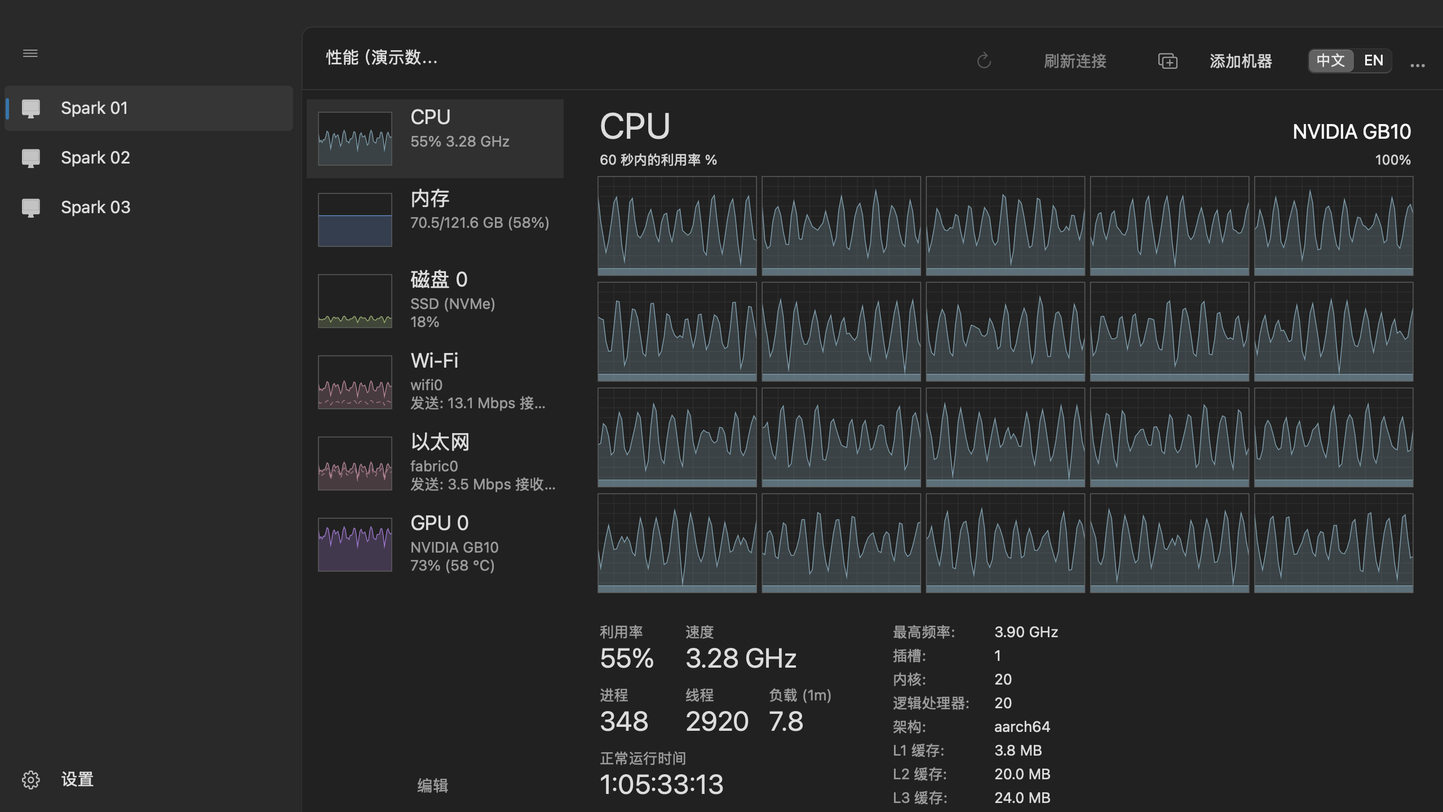
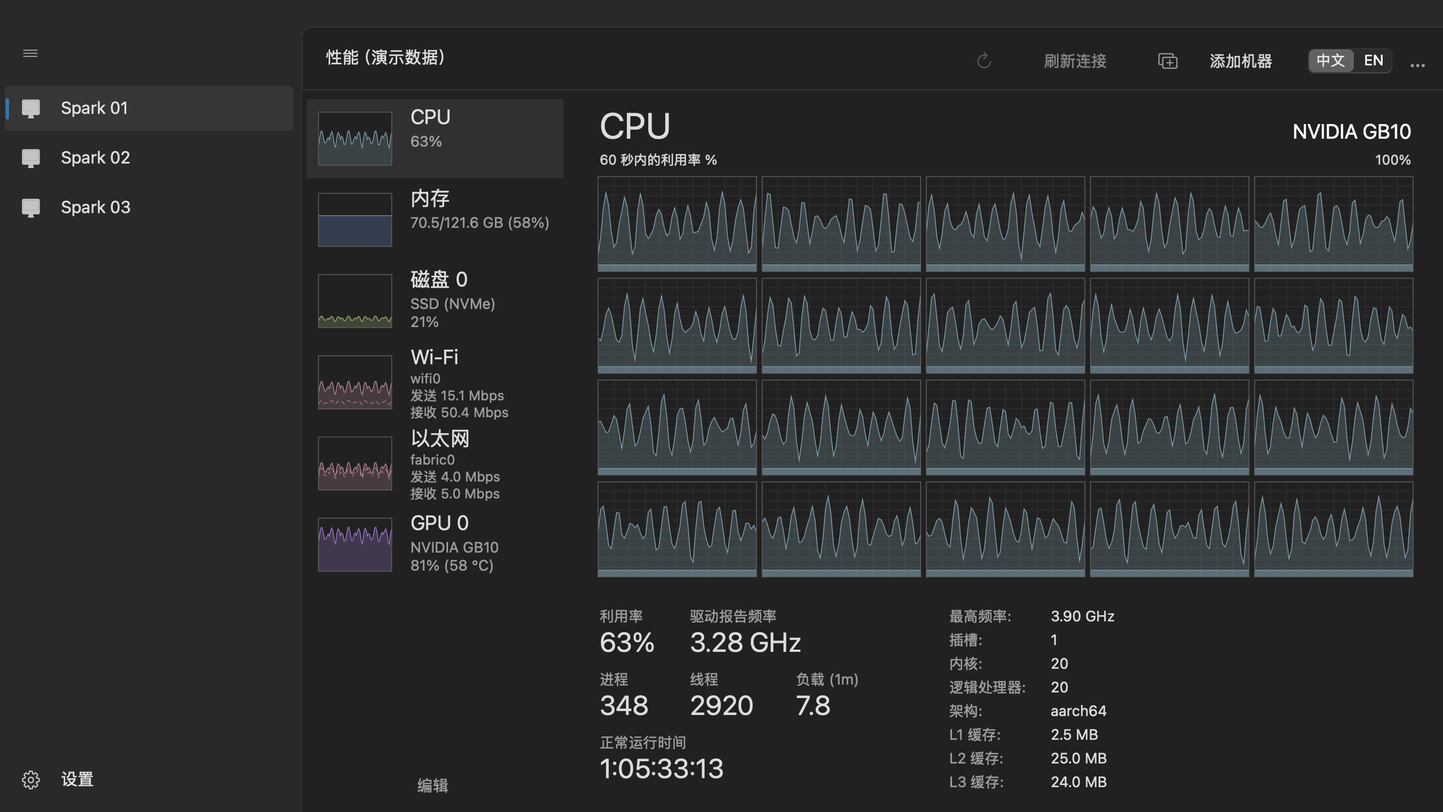
fix: correct native metrics and task manager layouts

diff --git a/Sources/SparkMonitor/PerformancePane.swift b/Sources/SparkMonitor/PerformancePane.swift
@@ -58,7 +58,11 @@ import AppKit
     }
     var gpuActivityCount: Int { localMac ? min(4, engineKeys.count) : 4 }
     func engineTitle(_ key: String) -> String {
-        if let title = selected?.metadata[key] { return title }
+        if let title = selected?.metadata[key] {
+            let duplicates = engineKeys.filter { selected?.metadata[$0] == title }.count > 1
+            let display = ["VideoDecode": "Video Decode", "VideoEncode": "Video Encode"][title] ?? title
+            return duplicates ? display + " (" + key.dropFirst(7) + ")" : display
+        }
         return ["usage": tr("总体利用率", "GPU utilization"), "memoryActivity": tr("内存读写活动", "Memory activity"), "encoder": "Video Encode", "decoder": "Video Decode"][key] ?? "—"
     }
     var gpuMemoryFields: [String] {
@@ -72,7 +76,11 @@ import AppKit
     }
     var selectedEngines: [String] {
         let saved = selected.flatMap { state.profile.gpuGraphs?[$0.id] } ?? []
-        return (0..<gpuActivityCount).map { i in i < saved.count && engineKeys.contains(saved[i]) ? saved[i] : (i < engineKeys.count ? engineKeys[i] : "") }
+        let preferred = windows ? ["3D", "Copy", "VideoDecode", "VideoEncode"].compactMap { name in
+            engineKeys.first { selected?.metadata[$0]?.replacingOccurrences(of: " ", with: "") == name }
+        } : []
+        let defaults = preferred + engineKeys.filter { !preferred.contains($0) }
+        return (0..<gpuActivityCount).map { i in i < saved.count && engineKeys.contains(saved[i]) ? saved[i] : (i < defaults.count ? defaults[i] : "") }
     }
     @objc func chooseEngine(_ menu: NSPopUpButton) {
         guard let id = selected?.id, let key = menu.selectedItem?.representedObject as? String else { return }
@@ -125,7 +133,9 @@ import AppKit
                         let menu = NSPopUpButton(); menu.isBordered = false; menu.font = .systemFont(ofSize: 12)
                         menu.target = self; menu.action = #selector(chooseEngine(_:)); menu.tag = i
                         for key in engineKeys {
-                            menu.addItem(withTitle: engineTitle(key)); menu.lastItem?.representedObject = key
+                            let item = NSMenuItem(title: engineTitle(key), action: nil, keyEquivalent: "")
+                            item.representedObject = key; menu.menu?.addItem(item)
+                            if key.hasPrefix("engine:") { item.toolTip = tr("硬件引擎 ", "Hardware engine ") + key.dropFirst(7) }
                         }
                         menu.setAccessibilityLabel(tr("GPU 图表", "GPU chart") + " \(i + 1)")
                         content.addSubview(menu); engineMenus.append(menu)
@@ -150,25 +160,26 @@ import AppKit
             row.nameLabel.stringValue = deviceTitle(d)
             let percent = number(m?.value("usage"), "%", digits: 0)
             switch d.kind {
-            case .cpu: row.subtitle.stringValue = percent + " " + number(m?.value("frequency").map { $0 / 1000 }, " GHz", digits: 2)
+            case .cpu: row.subtitle.stringValue = percent + (localMac || windows ? " " + number(m?.value("frequency").map { $0 / 1000 }, " GHz", digits: 2) : "")
             case .memory: row.subtitle.stringValue = memoryPair(m?.value("used"), m?.value("total")) + " (\(percent))"
             case .disk:
                 let detail = localMac ? tr("读 ", "R ") + bytes(m?.value("read"), perSecond: true) + "\n" + tr("写 ", "W ") + bytes(m?.value("write"), perSecond: true) : (d.metadata["type"] ?? "SSD (NVMe)") + "\n" + percent
                 row.subtitle.stringValue = detail
             case .network:
-                row.subtitle.stringValue = d.name + "\n" + tr("发送: ", "S: ") + bitRate(m?.value("send")) + " " + tr("接收: ", "R: ") + bitRate(m?.value("receive"))
+                row.subtitle.stringValue = d.name + "\n" + tr("发送 ", "S ") + bitRate(m?.value("send")) + "\n" + tr("接收 ", "R ") + bitRate(m?.value("receive"))
+                row.toolTip = d.name
             case .gpu: row.subtitle.stringValue = d.model + "\n" + percent + (m?.value("temperature").map { " (" + number($0, " °C", digits: 0) + ")" } ?? "")
             }
             let key = d.kind == .network ? "receive" : (localMac && d.kind == .disk ? "read" : "usage")
             row.chart.points = series(state, device: d, key: key, second: d.kind == .network ? "send" : (localMac && d.kind == .disk ? "write" : nil))
-            row.chart.ceiling = d.kind == .network ? rateCeiling(row.chart.points, multiplier: 8) / 8 : (localMac && d.kind == .disk ? rateCeiling(row.chart.points) : 100)
+            row.chart.ceiling = d.kind == .network ? rateCeiling(row.chart.points, multiplier: 8) / 8 : (localMac && d.kind == .disk ? rateCeiling(row.chart.points, binaryUnits: true) : 100)
             row.chart.needsDisplay = true; row.needsDisplay = true
             row.setAccessibilityLabel(row.nameLabel.stringValue + ", " + row.subtitle.stringValue)
         }
         composition.isHidden = selected?.kind != .memory
         if let d = selected {
             let metric = state.latest?.devices[d.id]
-            if d.kind == .memory, let total = metric?.value("total") {
+            if d.kind == .memory, let total = metric?.value("total") ?? state.history.reversed().lazy.compactMap({ $0.snapshot?.devices[d.id]?.value("total") }).first {
                 let installed = windows ? Double(d.metadata["installed"] ?? "") ?? total : total
                 modelLabel.stringValue = bytes(installed)
                 composition.fraction = metric?.value("used").map { $0 / total }
@@ -189,7 +200,7 @@ import AppKit
                 case .gpu:
                     if i < gpuActivityCount {
                         key = selectedEngines[i]; caption = engineTitle(key)
-                        let index = engineKeys.firstIndex(of: key) ?? -1
+                        let index = engineMenus[i].indexOfItem(withRepresentedObject: key)
                         if engineMenus[i].indexOfSelectedItem != index { engineMenus[i].selectItem(at: index) }
                     } else {
                         let field = gpuMemoryFields[i - gpuActivityCount]
@@ -204,6 +215,8 @@ import AppKit
                 chart.toolTip = chart.coreIndex.map { "CPU \($0)" }
                 if d.kind == .network {
                     chart.toolTip = tr("实线：接收；虚线：发送。", "Solid: receive; dashed: send.")
+                } else if d.kind == .disk && i == 1 {
+                    chart.toolTip = tr("实线：读取；虚线：写入。", "Solid: read; dashed: write.")
                 }
                 var capacity: Double?
                 if memoryChart {
@@ -220,7 +233,7 @@ import AppKit
                     if capacity == nil { chart.points = []; chart.unavailable = "—" }
                 }
                 else if d.kind == .network { chart.ceiling = rateCeiling(chart.points, multiplier: 8) / 8 }
-                else if d.kind == .disk && (i == 1 || localMac) { chart.ceiling = rateCeiling(chart.points) }
+                else if d.kind == .disk && (i == 1 || localMac) { chart.ceiling = rateCeiling(chart.points, binaryUnits: i == 1) }
                 else { chart.ceiling = 100 }
                 chartTitles[i].stringValue = caption
                 chartScales[i].stringValue = memoryChart ? bytes(capacity) : d.kind == .network ? bitRate(chart.ceiling) : d.kind == .disk && i == 1 ? bytes(chart.ceiling, perSecond: true) : d.kind == .gpu ? number(chartMetric?.value(key), "%", digits: 0) : "100%"
@@ -251,7 +264,8 @@ import AppKit
             let frame = NSRect(x: x, y: top + y, width: w, height: size + 8)
             field.stringValue = text; field.font = .systemFont(ofSize: size)
             field.textColor = secondary ? .secondaryLabelColor : .labelColor
-            field.toolTip = nil; field.maximumNumberOfLines = 1
+            field.toolTip = nil; field.maximumNumberOfLines = 1; field.lineBreakMode = .byTruncatingTail
+            field.setAccessibilityLabel(nil)
             field.frame = frame; details[cursor].1 = frame; cursor += 1
             return field
         }
@@ -271,16 +285,17 @@ import AppKit
         var facts: [(String, String)] = []; var factsX: CGFloat = 228; var keyWidth: CGFloat = zh ? 86 : 138
         switch d.kind {
         case .cpu:
-            stat(tr("利用率", "Utilization"), number(v("usage"), "%", digits: 0), x: 0, y: 0, w: 68)
-            stat(localMac ? tr("性能核速度", "P-core speed") : tr("速度", "Speed"), number(v("frequency").map { $0 / 1000 }, " GHz", digits: 2), x: 76, y: 0, w: 148)
-            stat(tr("进程", "Processes"), number(v("processes"), digits: 0), x: 0, y: 56, w: 68)
-            stat(tr("线程", "Threads"), number(v("threads"), digits: 0), x: 76, y: 56, w: 68)
-            if localMac { stat(tr("能效核速度", "E-core speed"), number(v("efficiencyFrequency").map { $0 / 1000 }, " GHz", digits: 2), x: 150, y: 56, w: 103) }
-            else { stat(windows ? tr("句柄", "Handles") : tr("负载 (1m)", "Load (1m)"), number(v(windows ? "handles" : "load"), digits: windows ? 0 : 1), x: 150, y: 56, w: 103) }
+            stat(tr("利用率", "Utilization"), number(v("usage"), "%", digits: 0), x: 0, y: 0, w: 74)
+            let speed = stat(localMac ? tr("性能核速度", "P-core speed") : (windows ? tr("速度", "Speed") : tr("驱动报告频率", "Driver-reported clock")), number(v("frequency").map { $0 / 1000 }, " GHz", digits: 2), x: 80, y: 0, w: 210)
+            if !localMac && !windows { speed.toolTip = tr("内核驱动报告的频率，可表示所请求的频率档位。", "Frequency reported by the kernel driver; it can represent the requested clock state.") }
+            stat(tr("进程", "Processes"), number(v("processes"), digits: 0), x: 0, y: 56, w: 74)
+            stat(tr("线程", "Threads"), number(v("threads"), digits: 0), x: 80, y: 56, w: 86)
+            if localMac { stat(tr("能效核速度", "E-core speed"), number(v("efficiencyFrequency").map { $0 / 1000 }, " GHz", digits: 2), x: 174, y: 56, w: 125) }
+            else { stat(windows ? tr("句柄", "Handles") : tr("负载 (1m)", "Load (1m)"), number(v(windows ? "handles" : "load"), digits: windows ? 0 : 1), x: 174, y: 56, w: 125) }
             let uptime = state.latest.map { Int($0.uptime) }
             let duration = uptime.map { String(format: "%d:%02d:%02d:%02d", $0 / 86400, $0 / 3600 % 24, $0 / 60 % 60, $0 % 60) } ?? "—"
             stat(tr("正常运行时间", "Up time"), duration, x: 0, y: 112, w: 225)
-            factsX = 260
+            factsX = 310
             let virtualization = d.metadata["virtualization"].map { $0.lowercased() == "true" ? tr("已启用", "Enabled") : tr("已禁用", "Disabled") } ?? "—"
             let frequencyKey = d.metadata["baseFrequency"] != nil ? "baseFrequency" : "maxFrequency"
             facts = [(frequencyKey == "baseFrequency" ? tr("基准速度", "Base speed") : tr("最高频率", "Maximum clock"), number(d.metadata[frequencyKey].flatMap(Double.init).map { $0 / 1000 }, " GHz", digits: 2)),
@@ -294,7 +309,8 @@ import AppKit
             let compressed = v("compressed")
             stat(compressed == nil ? tr("使用中", "In use") : tr("使用中（已压缩）", "In use (Compressed)"), bytes(v("used")) + (compressed.map { " (" + bytes($0) + ")" } ?? ""), x: 0, y: 0, w: 195)
             stat(tr("可用", "Available"), bytes(v("available")), x: 196, y: 0, w: 120)
-            stat(localMac ? tr("App 内存", "App memory") : tr("已提交", "Committed"), localMac ? bytes(v("app")) : memoryPair(v("committed"), v("commitLimit")), x: 0, y: 56, w: 180)
+            let committed = stat(localMac ? tr("App 内存", "App memory") : (windows ? tr("已提交", "Committed") : tr("提交量 / 参考值", "Commit / reference")), localMac ? bytes(v("app")) : memoryPair(v("committed"), v("commitLimit")), x: 0, y: 56, w: 180)
+            if !localMac && !windows { committed.toolTip = tr("已提交虚拟内存 / CommitLimit。仅严格超额分配模式把后者作为硬上限。", "Committed virtual memory / CommitLimit. The limit is enforced in strict overcommit mode.") }
             stat(tr("已缓存", "Cached"), bytes(v("cached")), x: 196, y: 56, w: 120)
             stat(windows ? tr("分页池", "Paged pool") : (localMac ? tr("联动内存", "Wired memory") : tr("已用 Swap", "Swap used")), bytes(v(windows ? "paged" : (localMac ? "wired" : "swapUsed"))), x: 0, y: 112, w: 180)
             stat(windows ? tr("非分页池", "Non-paged pool") : (localMac ? tr("已用 Swap", "Swap used") : tr("Swap 总量", "Swap total")), bytes(v(windows ? "nonpaged" : (localMac ? "swapUsed" : "swapTotal"))), x: 196, y: 112, w: 120)
@@ -312,8 +328,8 @@ import AppKit
         case .disk:
             stat(localMac ? tr("每秒操作数", "IOPS") : tr("活动时间", "Active time"), localMac ? number(v("operations"), digits: 0) : number(v("usage"), "%", digits: 0), x: 0, y: 0, w: localMac ? 112 : 76)
             stat(tr("平均响应时间", "Average response time"), number(v("latency"), tr(" 毫秒", " ms")), x: localMac ? 120 : 78, y: 0, w: 194)
-            stat(tr("读取速度", "Read speed"), bytes(v("read"), perSecond: true), x: 8, y: 56, w: 151)
-            stat(tr("写入速度", "Write speed"), bytes(v("write"), perSecond: true), x: 167, y: 56, w: 150)
+            stat(tr("读取速度", "Read speed"), bytes(v("read"), perSecond: true), x: 0, y: 56, w: 151)
+            stat(tr("写入速度", "Write speed"), bytes(v("write"), perSecond: true), x: 159, y: 56, w: 150)
             factsX = 315; keyWidth = zh ? 86 : 116
             facts = [(tr("容量", "Capacity"), bytes(v("capacity"))), (tr("已格式化", "Formatted"), bytes(v("total"))),
                      (tr("系统磁盘", "System disk"), d.metadata["system"].map { $0 == "true" ? tr("是", "Yes") : tr("否", "No") } ?? "—"),
@@ -326,7 +342,7 @@ import AppKit
             let wifi = d.metadata["type"] == "Wi-Fi"
             facts = [(tr("适配器名称", "Adapter name"), d.name)]
             if wifi { facts.append(("SSID", state.live ? meta("ssid") : "—")) }
-            facts += [(tr("DNS 名称", "DNS name"), meta("domain")), (tr("连接类型", "Connection type"), wifi ? meta("protocol") : meta("type")),
+            facts += [(tr("DNS 名称", "DNS name"), meta("domain")), (tr("连接类型", "Connection type"), wifi ? meta("protocol") : (meta("type") == "Ethernet" ? tr("以太网", "Ethernet") : meta("type"))),
                       (tr("IPv4 地址", "IPv4 address"), meta("ipv4")), (tr("IPv6 地址", "IPv6 address"), meta("ipv6"))]
             if wifi { facts.append((tr("信号强度", "Signal strength"), number(v("signal"), d.metadata["signalUnit"] == "%" ? "%" : " dBm", digits: 0))) }
         case .gpu:
@@ -338,13 +354,18 @@ import AppKit
                 let total = v("dedicatedTotal").flatMap { a in v("sharedTotal").map { a + $0 } }
                 stat(tr("GPU 内存", "GPU memory"), memoryPair(used, total), x: 0, y: 56, w: 158)
             }
-            if localMac { stat(tr("GPU 驱动内存", "GPU driver memory"), bytes(v("allocated")), x: 160, y: 0, w: 195) }
+            if localMac { stat(tr("GPU 驱动内存", "GPU driver memory"), bytes(v("allocated")), x: 140, y: 0, w: 165) }
             else if gpuMemoryFields.contains("shared") { stat(tr("共享 GPU 内存", "Shared GPU memory"), memoryPair(v("sharedUsed"), v("sharedTotal")), x: 160, y: dedicated ? 56 : 0, w: 195) }
-            if let temperature = v("temperature") { stat(tr("GPU 温度", "GPU temperature"), number(temperature, " °C", digits: 0), x: 0, y: dedicated ? 112 : 56, w: 155) }
-            factsX = 363; keyWidth = zh ? 103 : 110
+            if v("temperature") != nil || state.history.contains(where: { $0.snapshot?.devices[d.id]?.value("temperature") != nil }) {
+                stat(tr("GPU 温度", "GPU temperature"), number(v("temperature"), " °C", digits: 0), x: 0, y: dedicated ? 112 : 56, w: 155)
+            }
+            factsX = windows ? 363 : 315; keyWidth = zh ? 103 : 110
             facts = [(tr("驱动版本", "Driver version"), localMac ? "—" : meta("driver")), (tr("驱动日期", "Driver date"), meta("driverDate")),
                      (tr("DirectX 版本", "DirectX version"), meta("directX")), (tr("物理位置", "Physical location"), meta("pci"))]
-            if localMac { facts = [(tr("GPU 核心", "GPU cores"), meta("cores")), (tr("内存架构", "Memory model"), tr("CPU / GPU 共享", "CPU / GPU shared")), (tr("驱动", "Driver"), meta("driver"))] }
+            if localMac {
+                factsX = 315; keyWidth = zh ? 72 : 110
+                facts = [(tr("GPU 核心", "GPU cores"), meta("cores")), (tr("内存架构", "Memory model"), tr("CPU / GPU 共享", "CPU / GPU shared")), (tr("驱动", "Driver"), meta("driver"))]
+            }
         }
         facts.removeAll { $0.1 == "—" || $0.1.isEmpty }
         for (i, fact) in facts.enumerated() {
@@ -376,7 +397,7 @@ import AppKit
         editButton.frame = NSRect(x: 10, y: bounds.height - 39, width: sideWidth - 20, height: 30)
         detailScroll.frame = NSRect(x: sideWidth + 30, y: offset, width: bounds.width - sideWidth - 56, height: bounds.height - offset)
         let w = detailScroll.contentSize.width
-        let h = max(640, detailScroll.contentSize.height)
+        let h = max(640 - offset, detailScroll.contentSize.height)
         titleLabel.frame = NSRect(x: 0, y: 12, width: w * 0.5, height: 44)
         modelLabel.frame = NSRect(x: w * 0.34, y: 26, width: w * 0.66, height: 26)
         let top: CGFloat = 76
@@ -384,7 +405,7 @@ import AppKit
         let kind = selected?.kind
         switch kind {
         case .cpu:
-            let height = h - 270
+            let height = h - 284
             if state.profile.logicalCPU {
                 let columns = charts.count == 20 ? 5 : (charts.count > 16 ? 8 : 4)
                 let rowCount = CGFloat((charts.count + columns - 1) / columns), cellW = (w - CGFloat(columns - 1) * 4) / CGFloat(columns)
@@ -406,7 +427,7 @@ import AppKit
         case .gpu:
             let half = (w - 10) / 2
             let gpuTop = top + 8
-            let graphHeight = (h - (gpuMemoryFields.count == 2 ? 372 : 340)) / CGFloat(2 + gpuMemoryFields.count)
+            let graphHeight = (h - (gpuMemoryFields.count == 2 ? 386 : 340)) / CGFloat(2 + gpuMemoryFields.count)
             frames = (0..<gpuActivityCount).map { NSRect(x: CGFloat($0 % 2) * (half + 10), y: gpuTop + CGFloat($0 / 2) * (graphHeight + 32), width: half, height: graphHeight) }
             for index in gpuMemoryFields.indices {
                 frames.append(NSRect(x: 0, y: gpuTop + CGFloat(2 + index) * (graphHeight + 32), width: w, height: graphHeight))
@@ -462,6 +483,8 @@ import AppKit
             let start = bounds.width * CGFloat(fraction)
             Style.color(.memory).withAlphaComponent(0.55).setFill()
             NSRect(x: start, y: 0, width: bounds.width * CGFloat(modified), height: bounds.height).fill()
+            Style.color(.memory).withAlphaComponent(0.12).setFill()
+            NSRect(x: bounds.width * CGFloat(fraction + modified), y: 0, width: bounds.width * CGFloat(standby), height: bounds.height).fill()
             for f in [fraction + modified, fraction + modified + standby] {
                 Style.color(.memory).setFill(); NSRect(x: bounds.width * CGFloat(min(1, f)), y: 0, width: 1, height: bounds.height).fill()
             }
@@ -483,8 +506,9 @@ func bitRate(_ bytes: Double?) -> String {
     if bits >= 1_000_000 { return number(bits / 1_000_000, " Mbps") }
     return number(bits / 1000, " Kbps")
 }
-func rateCeiling(_ points: [ChartPoint], multiplier: Double = 1) -> Double {
+func rateCeiling(_ points: [ChartPoint], multiplier: Double = 1, binaryUnits: Bool = false) -> Double {
     let peak = max(1, (points.flatMap { [$0.total, $0.secondary].compactMap { $0 } }.max() ?? 1) * multiplier)
-    let magnitude = pow(10, floor(log10(peak)))
+    let unit = binaryUnits ? pow(1024, floor(log(peak) / log(1024))) : 1
+    let magnitude = unit * pow(10, floor(log10(peak / unit)))
     return ([1.0, 2, 5, 10].first { $0 * magnitude >= peak } ?? 10) * magnitude
 }

diff --git a/Sources/SparkMonitor/Charts.swift b/Sources/SparkMonitor/Charts.swift
@@ -1,7 +1,7 @@
 import AppKit
 
 @MainActor enum Style {
-    static var dark: Bool { NSApp.effectiveAppearance.bestMatch(from: [.darkAqua, .aqua]) == .darkAqua }
+    static var dark: Bool { NSAppearance.currentDrawing().bestMatch(from: [.darkAqua, .aqua]) == .darkAqua }
     static var surface: NSColor { dark ? NSColor(white: 0.13, alpha: 1) : .white }
     static var sidebar: NSColor { dark ? NSColor(white: 0.16, alpha: 1) : NSColor(srgbRed: 0.947, green: 0.954, blue: 0.960, alpha: 1) }
     static var grid: NSColor { dark ? NSColor(white: 0.20, alpha: 1) : NSColor(white: 0.947, alpha: 1) }
@@ -184,9 +184,11 @@ struct ChartPoint {
         super.layout()
         chart.frame = NSRect(x: 10, y: 11, width: 66, height: 48)
         let textWidth = bounds.width - (editing ? 124 : 94)
-        nameLabel.frame = NSRect(x: 90, y: 5, width: textWidth, height: 24)
-        subtitle.frame = NSRect(x: 90, y: 29, width: textWidth, height: 35)
-        subtitle.maximumNumberOfLines = 2
+        let network = device.kind == .network
+        nameLabel.frame = NSRect(x: 90, y: network ? 2 : 5, width: textWidth, height: 24)
+        subtitle.frame = NSRect(x: 90, y: network ? 24 : 29, width: textWidth, height: network ? 46 : 35)
+        subtitle.font = .systemFont(ofSize: network ? 12 : 13)
+        subtitle.maximumNumberOfLines = network ? 3 : 2
         checkbox.isHidden = !editing; checkbox.state = visible ? .on : .off
         checkbox.frame = NSRect(x: bounds.width - 27, y: 25, width: 21, height: 22)
         checkbox.setAccessibilityLabel(tr("显示", "Show") + " " + deviceTitle(device) + " " + device.name)

diff --git a/Sources/SparkMonitor/Demo.swift b/Sources/SparkMonitor/Demo.swift
@@ -6,7 +6,7 @@ import Foundation
         for i in 1...3 {
             let state = HostState(HostProfile(name: "Spark 0\(i)", host: "spark-0\(i).example", username: "demo"))
             state.inventory = HardwareInventory(hostname: state.profile.name, devices: [
-                HardwareDevice(id: "cpu", kind: .cpu, name: "CPU", model: "NVIDIA GB10", defaultVisible: true, metadata: ["cores": "20", "architecture": "aarch64", "sockets": "1", "cacheL1": "3932160", "cacheL2": "20971520", "cacheL3": "25165824", "maxFrequency": "3900"]),
+                HardwareDevice(id: "cpu", kind: .cpu, name: "CPU", model: "NVIDIA GB10", defaultVisible: true, metadata: ["cores": "20", "architecture": "aarch64", "sockets": "1", "cacheL1": "2621440", "cacheL2": "26214400", "cacheL3": "25165824", "maxFrequency": "3900"]),
                 HardwareDevice(id: "memory", kind: .memory, name: "Memory", model: "LPDDR5X", defaultVisible: true, metadata: [:]),
                 HardwareDevice(id: "disk:demo", kind: .disk, name: "0 (NVMe)", model: "4 TB NVMe SSD", defaultVisible: true, metadata: ["index": "0", "system": "true", "type": "SSD (NVMe)"]),
                 HardwareDevice(id: "net:demo", kind: .network, name: "wifi0", model: "MediaTek Wi-Fi 7 MT7925", defaultVisible: true, metadata: ["type": "Wi-Fi", "rdma_ports": "[]", "ipv4": "192.0.2.10", "interface": "wifi0", "ssid": "Spark Demo", "protocol": "802.11be", "domain": "example", "dns": "192.0.2.1", "mac": "02:00:00:00:00:01", "ipv6": "2001:db8::10"]),

diff --git a/Sources/SparkMonitor/Window.swift b/Sources/SparkMonitor/Window.swift
@@ -127,7 +127,7 @@ import AppKit
         let compact = collapsed ?? (bounds.width < 1140)
         navigationWidth = compact ? 48 : 268
         let bodyWidth = bounds.width - navigationWidth
-        heading.frame = NSRect(x: navigationWidth + 19, y: 41, width: 110, height: 24)
+        heading.frame = NSRect(x: navigationWidth + 19, y: 41, width: max(110, bodyWidth - 440), height: 24)
         refreshButton.frame = NSRect(x: bounds.width - 414, y: 39, width: 160, height: 29)
         add.frame = NSRect(x: bounds.width - 254, y: 39, width: 128, height: 29)
         language.frame = NSRect(x: bounds.width - 122, y: 42, width: 80, height: 24)

diff --git a/Sources/SparkMonitor/Resources/windows-native.cs b/Sources/SparkMonitor/Resources/windows-native.cs
@@ -28,7 +28,12 @@ public sealed class SparkCounters : IDisposable {
         return v.Number;
     }
     public Dictionary<string,double> Values(string key) {
-        var result=new Dictionary<string,double>(); IntPtr handle;
+        var result=new Dictionary<string,double>();
+        foreach(var pair in NullableValues(key)) if(pair.Value.HasValue) result[pair.Key]=pair.Value.Value;
+        return result;
+    }
+    public Dictionary<string,double?> NullableValues(string key) {
+        var result=new Dictionary<string,double?>(); IntPtr handle;
         if(!counters.TryGetValue(key,out handle)) return result;
         uint bytes=0,count; uint status=PdhGetFormattedCounterArray(handle,0x8200,ref bytes,out count,IntPtr.Zero);
         if(status!=0x800007D2 || bytes==0) return result; // PDH_MORE_DATA
@@ -38,7 +43,7 @@ public sealed class SparkCounters : IDisposable {
             int size=Marshal.SizeOf(typeof(Item));
             for(int i=0;i<count;i++) {
                 Item item=(Item)Marshal.PtrToStructure(IntPtr.Add(buffer,i*size),typeof(Item));
-                if(item.Value.Status<=1) result[Marshal.PtrToStringUni(item.Name)]=item.Value.Number;
+                result[Marshal.PtrToStringUni(item.Name)]=item.Value.Status<=1 ? (double?)item.Value.Number : null;
             }
         } finally { Marshal.FreeHGlobal(buffer); }
         return result;

diff --git a/docs/metrics.md b/docs/metrics.md
@@ -9,7 +9,7 @@ The native app keeps Windows Task Manager's Performance-page appearance and arra
 | CPU user | Delta(user + nice) / delta(sum of first eight `/proc/stat` fields) |
 | CPU system | Delta(system + irq + softirq) / the same denominator |
 | CPU total | User + system; idle, iowait and steal are not attributed to either series. Guest fields are already included in user/nice and are not added again. |
-| CPU frequency | Mean of available `scaling_cur_freq` readings; a driver-reported frequency, not an independent measurement of effective work. |
+| CPU frequency | Mean of available `scaling_cur_freq` readings. Labelled “Driver-reported clock” on the CPU page and omitted from the Linux sidebar. It can be the driver's requested clock state, including a fixed maximum under the performance governor. |
 | CPU temperature | The sampler reads the maximum of the Spark ACPI CPU zones `TS0E`, `TS0P`, `TS1E`, `TS1P`, found by `device/path`. The native Task Manager-style CPU page does not display temperature. |
 | Memory | `/proc/meminfo`: OS-visible total, available, in-use = total − available, cache = Cached + SReclaimable, Swap used = SwapTotal − SwapFree. Cache overlaps reclaimable memory and is not an additional allocation to sum with used/available. |
 | Disk active time | Delta(io_ticks) / elapsed milliseconds, displayed at 0–100%; this is device busy time, not percent of SSD capacity or bandwidth. |
@@ -22,6 +22,8 @@ The native app keeps Windows Task Manager's Performance-page appearance and arra
 
 Spark CPU/GPU share physical memory. The memory page is the common pool; the GPU page does not fabricate a dedicated VRAM allocation. Unsupported Windows-specific fields such as separate 3D/Copy engine percentages are not synthesized.
 
+Linux commit accounting shows `Committed_AS / CommitLimit` as “Commit / reference”. The limit is enforced in strict overcommit mode (`vm.overcommit_memory=2`); in heuristic or always-overcommit modes it is a reference value. The tooltip identifies this distinction.
+
 Counter resets or the initial baseline yield unavailable rates. Broken streams retain old history only as historical samples; current values are cleared. Authentication and host-key failures stop automatic reconnect. Transient network failures are retried after five seconds.
 
 CPU process/thread counts are Linux process and schedulable-task counts; cache sizes are summed over distinct sysfs shared-cache groups. Disk response time is the read/write time delta divided by completed operations. Network graph labels use decimal bits per second. Memory/disk labels follow Task Manager's KB/MB/GB notation with 1,024-based scaling.
@@ -33,18 +35,20 @@ Network metadata comes from NetworkManager (`nmcli device show`) and sysfs. Wi-F
 ## Reference sources
 
 - [NVIDIA SMI](https://docs.nvidia.com/deploy/nvidia-smi/): utilization and encoder/decoder metric definitions.
+- [Linux CPU frequency](https://docs.kernel.org/admin-guide/pm/cpufreq.html): driver-reported `scaling_cur_freq` and requested clock states.
+- [Linux overcommit accounting](https://www.kernel.org/doc/html/latest/mm/overcommit-accounting.html): committed virtual memory and policy-dependent limits.
 - [NetworkManager nmcli](https://networkmanager.pages.freedesktop.org/NetworkManager/NetworkManager/nmcli.html): device metadata queries.
 - [Microsoft Press: Windows 10 Tools](https://download.microsoft.com/download/7/3/8/7381E0E8-CE72-4366-9849-13B2BAFBBA3C/Microsoft_Press_ebook_Windows_10_Tools_8.5x11.pdf): Task Manager Performance-page layout.
 - [WLAN signal quality](https://learn.microsoft.com/en-us/windows/win32/api/wlanapi/ns-wlanapi-wlan_association_attributes): signal bars use Windows' linear mapping from -100...-50 dBm to 0...100 quality.
 
 ## Windows native backend
 
-- CPU: one persistent PDH query samples `Processor Information` total and each logical processor's processor/user/privileged time on the same collection tick. Speed uses processor frequency × percent processor performance. Processes, threads and handles use `GetPerformanceInfo`; topology and base clock use CIM. Windows ACPI thermal-zone readings are not treated as reliable CPU temperatures. CPU temperature is not collected or displayed on Windows.
+- CPU: one persistent PDH query samples `Processor Information` total and each logical processor's processor/user/privileged time on the same collection tick. Logical processor identities are fixed at connection; invalid or missing samples remain null without shifting another core's history. Speed uses processor frequency × percent processor performance. Processes, threads and handles use `GetPerformanceInfo`; topology and base clock use CIM. Shared L3 is summed per processor socket from `Win32_Processor.L3CacheSize`; duplicate P/E-group cache entries are not added together. Virtualization is enabled when firmware reports it or a hypervisor is present. Windows ACPI thermal-zone readings are not treated as reliable CPU temperatures. CPU temperature is not collected or displayed on Windows.
 - Memory: OS-visible physical total/available, commit and pools use `GetPerformanceInfo`. In use excludes the modified list from total − available; cached = standby + modified. Composition uses in-use, modified, standby and free/zero-page lists. Installed capacity, timings and slots use SMBIOS via CIM. Hardware reserved = installed − OS-visible total. Compressed-store size is not collected.
 - Disk: native physical-disk counters provide idle time (active = 100 − idle, bounded 0–100), read/write bytes/sec and average transfer latency. Storage cmdlets provide drive letters, volume sizes and low-frequency reliability temperature. Volume size/free space and storage temperatures refresh in a separate in-process runspace every 15 seconds. Hardware inventory is discovered on connection; reconnect after changing installed devices.
 - Network: .NET network interfaces provide byte-counter deltas over actual elapsed time, addresses, speed, errors and drops. Native WLAN connection queries provide SSID, signal percentage and negotiated rates when connected and permitted by Windows privacy settings. Virtual/disconnected interfaces remain available in Edit.
 - GPU: DXGI enumerates adapters and memory capacities; PDH groups per-process engine activity by adapter LUID and physical engine, then uses the busiest engine for overall utilization. Different engines are never summed into a false overall percentage. Adapters without GPU-engine counter instances (including session mirrors) are not presented as additional physical GPUs. Dedicated/shared allocations are WDDM figures and overlap the machine's physical memory; do not add them to system memory usage. Temperature uses `D3DKMTQueryAdapterInfo`, DirectX feature level uses `D3D12CreateDevice` capability testing without device creation, and PCI location uses D3DKMT. The native adapter performance `Power` percentage is **not watts** and is not exposed as power draw.
-- GPU identity: a PNP ID is retained only for an unambiguous one-to-one model match. Identical-model or unmatched adapters use their unique DXGI LUID, so their samples remain separate. LUID-based visibility/order preferences can reset after a Windows reboot.
+- GPU identity: a PNP ID is retained only for an unambiguous one-to-one model match. Identical-model or unmatched adapters use their unique DXGI LUID, so their samples remain separate. LUID-based visibility/order preferences can reset after a Windows reboot. Repeated engine names include their physical engine index, and graph selections bind to that identity. Default graphs prefer available 3D, Copy, Video Decode and Video Encode engines; all reported engines remain selectable.
 - Commands run without a PTY and emit UTF-8 JSON. The native declarations use only Windows libraries. No third-party monitoring driver or persistent service is installed.
 
 Sources: [PDH English counters](https://learn.microsoft.com/en-us/windows/win32/api/pdh/nf-pdh-pdhaddenglishcounterw), [GPU engine semantics](https://devblogs.microsoft.com/directx/gpus-in-the-task-manager/), [GPU temperature and power units](https://learn.microsoft.com/en-us/windows-hardware/drivers/ddi/d3dkmthk/ns-d3dkmthk-_d3dkmt_adapter_perfdata), [storage reliability](https://learn.microsoft.com/en-us/powershell/module/storage/get-storagereliabilitycounter), [DirectX capability query](https://learn.microsoft.com/en-us/windows/win32/api/d3d12/nf-d3d12-d3d12createdevice).
